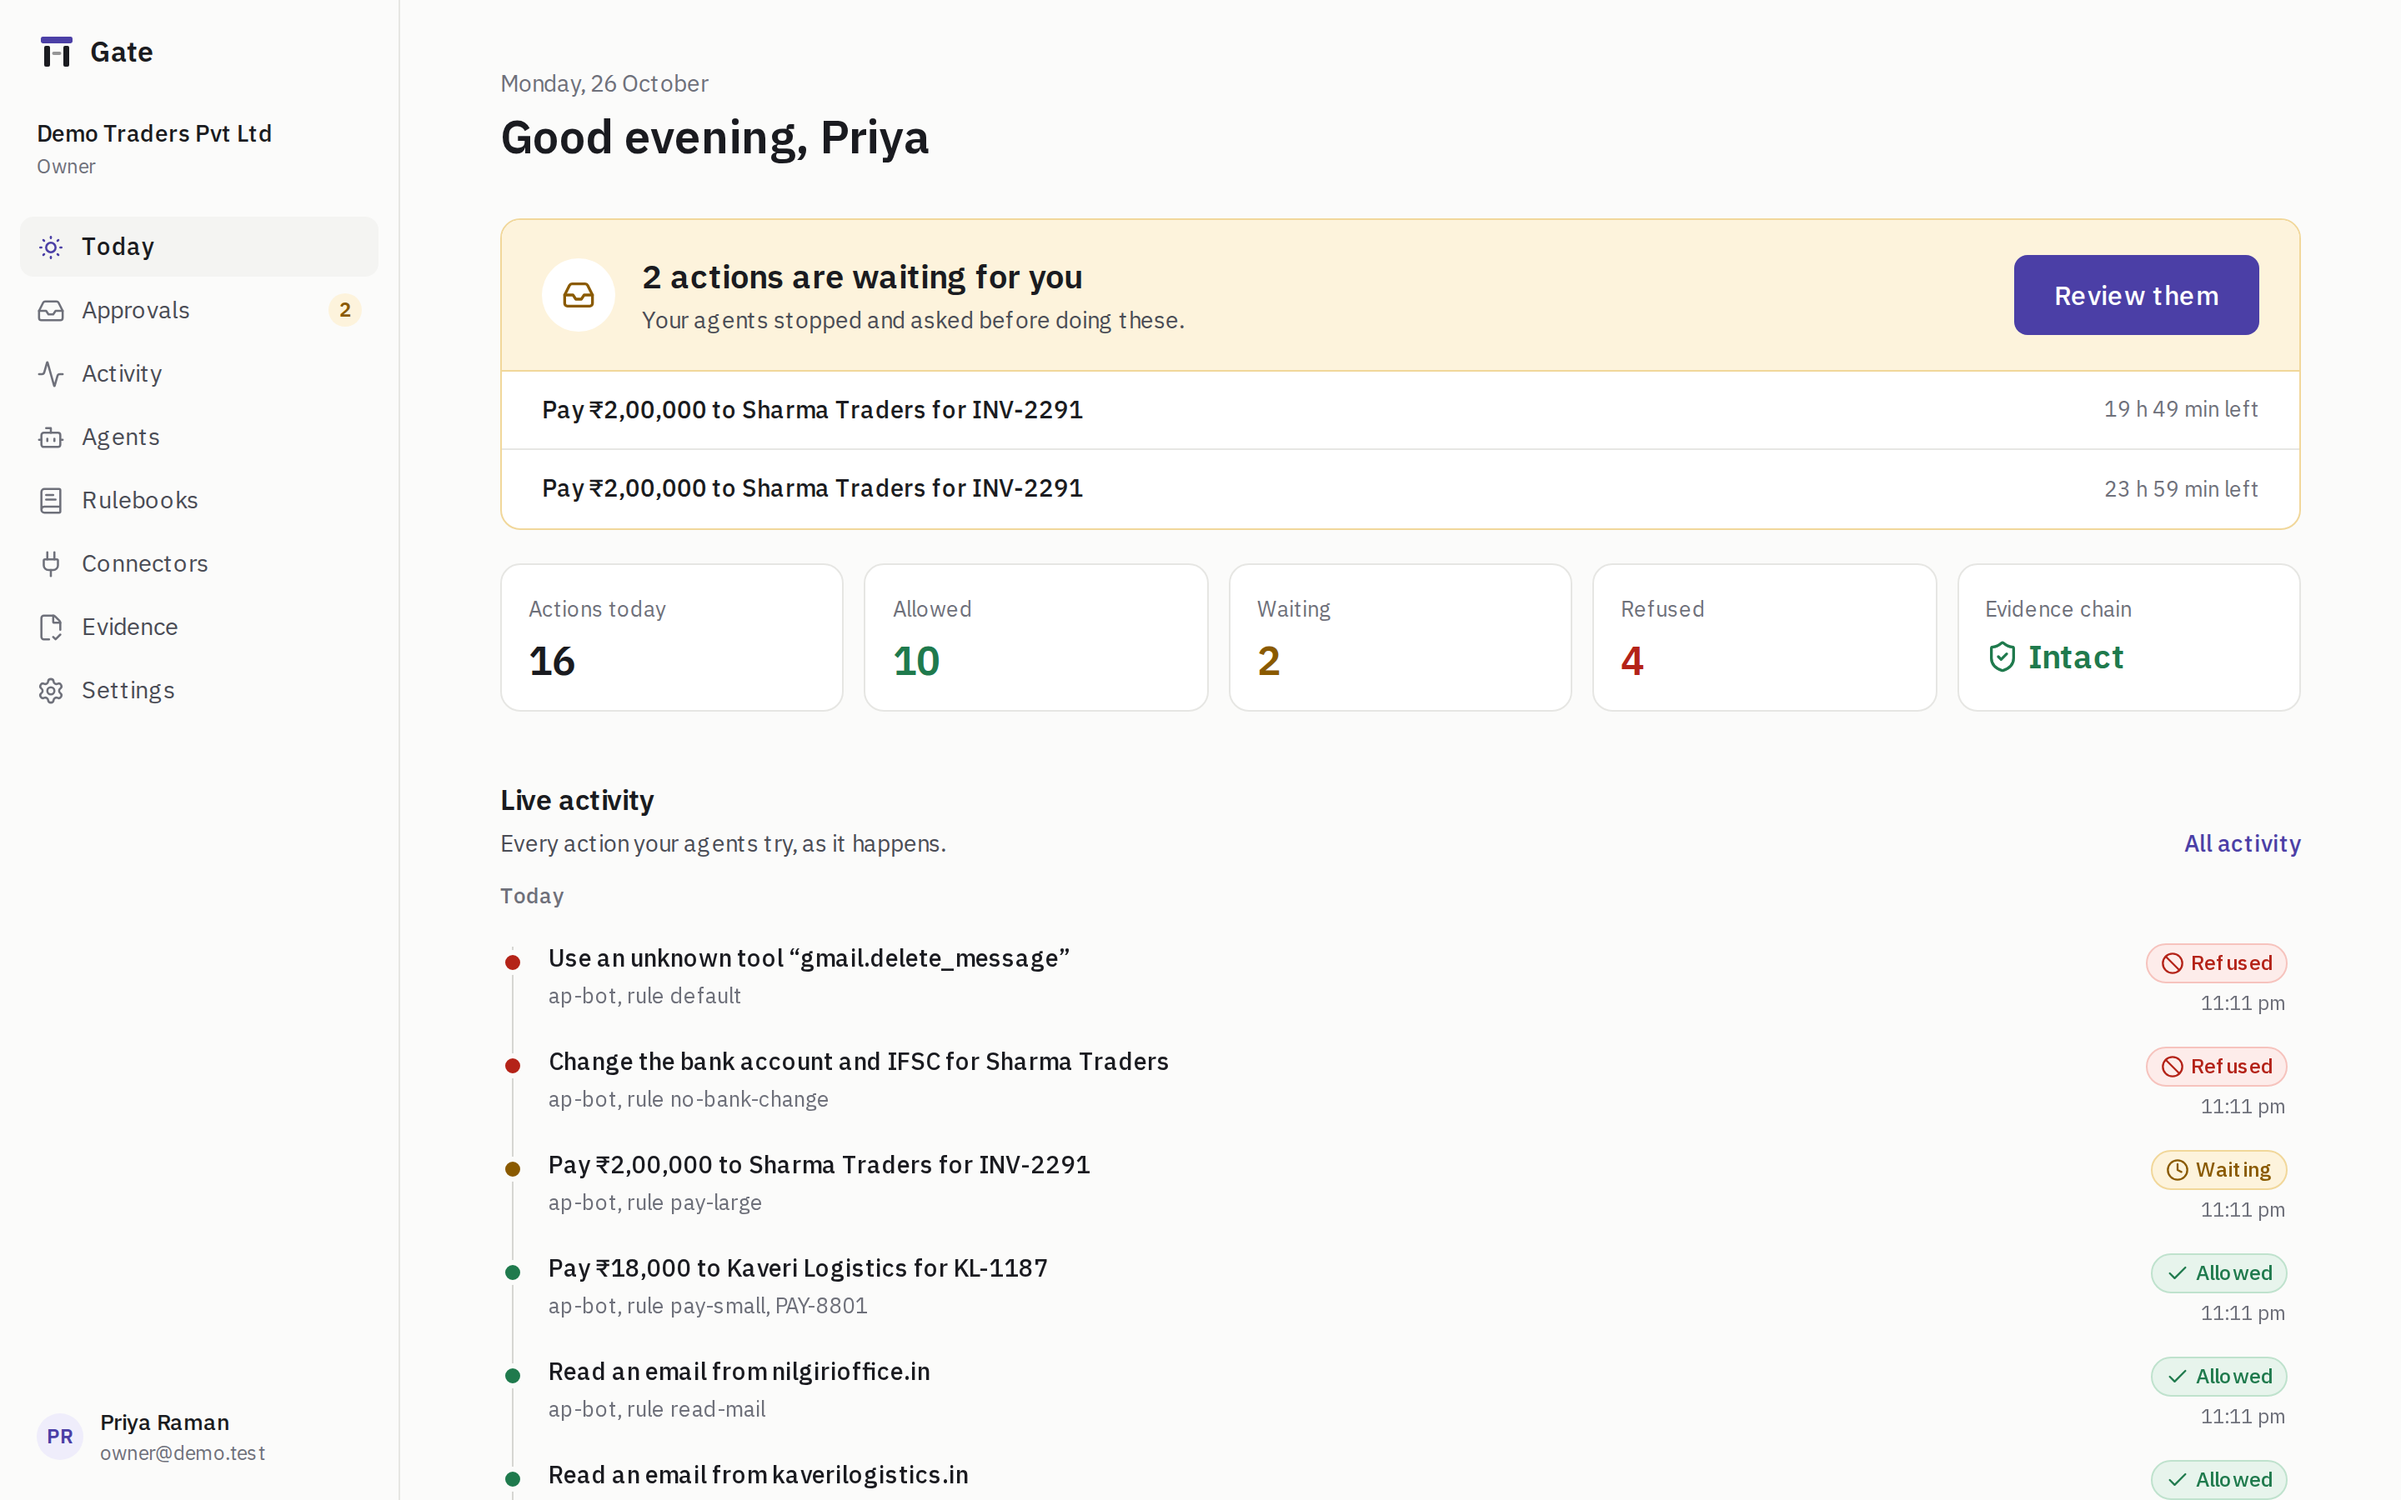
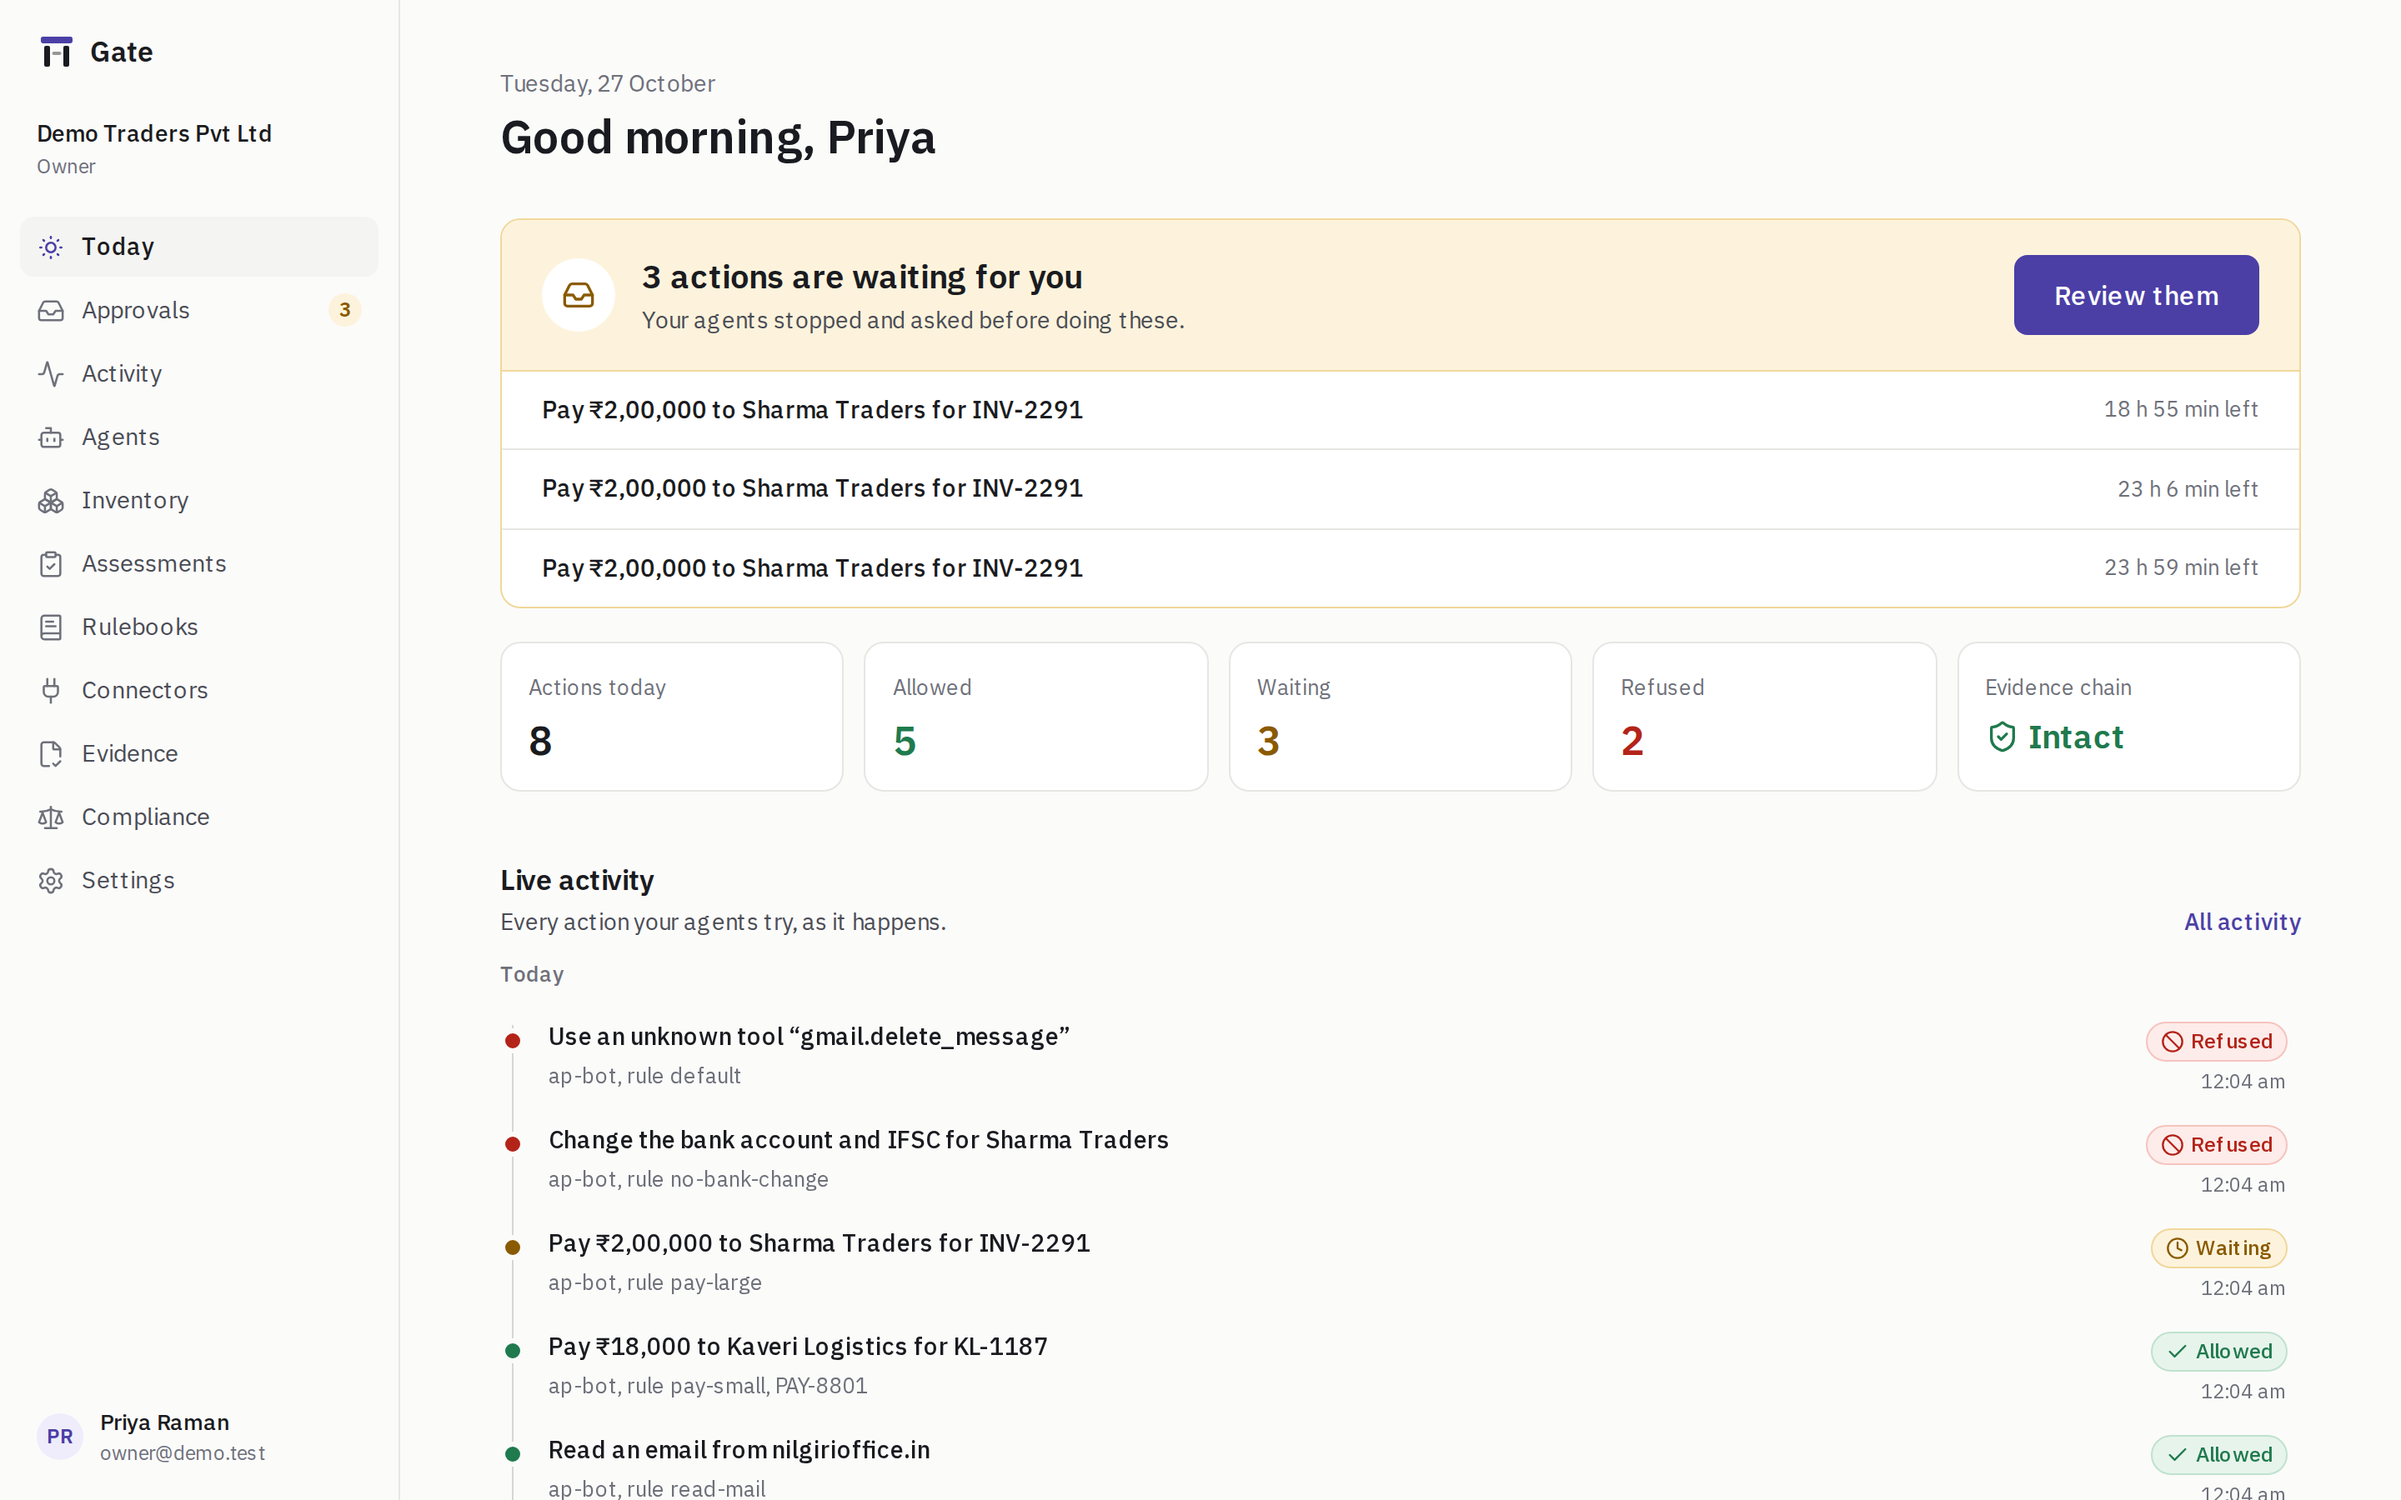
Docs and screenshots for the governance platform; gitleaks exception for public key fingerprints
Claude-Session: https://claude.ai/code/session_01RHbjjSCgH86VUkGWc2xeKH

diff --git a/docs/ARCHITECTURE.md b/docs/ARCHITECTURE.md
@@ -34,13 +34,13 @@ This document explains how the pieces fit, the invariants that keep it safe, and
 
 | Package | Responsibility | Depends on |
 |---|---|---|
-| `packages/core` | Pure logic, no I/O: canonical JSON, crypto, tool registry, rulebook schema, decision engine, receipts, chain and bundle verification, plain-language descriptions, risk questionnaire. Browser-safe subset at `@gate/core/browser`. | zod, yaml, fflate |
+| `packages/core` | Pure logic, no I/O: canonical JSON, crypto, key rings, tool registry, rulebook schema, decision engine, receipts, chain and bundle verification, plain-language descriptions, risk questionnaire, assessment templates and scoring, and the framework library and industry packs (`@gate/core/frameworks`). Browser-safe subset at `@gate/core/browser`. | zod, yaml, fflate |
 | `packages/db` | Prisma schema and migrations, `forOrg()` tenant scoping, serialized chain writer, quota usage, lookups that start from a secret. | core, Prisma |
 | `packages/connectors` | Gmail, Zoho Books (India data centre) and mock connectors behind one `Connector` interface. OAuth helpers. | core |
 | `packages/sdk` | `check` / `record` / `waitForApproval` for agents with their own loop. | none |
 | `packages/cli` | `gate verify`, `gate sign`, `gate keygen`. | core |
-| `apps/gate` | The guard: MCP server, REST Event API, approvals, evidence export, internal admin API, OAuth callbacks. | core, db, connectors |
-| `apps/web` | The console. Reads with `forOrg`, writes chain-affecting state only through the gate service. | core, db |
+| `apps/gate` | The guard: MCP server, REST Event API (+ OpenAPI), approvals, upstream MCP proxy, evidence and framework reports, webhooks, pg-boss jobs, key provider and rotation, internal admin API, OAuth callbacks. | core, db, connectors |
+| `apps/web` | The console: operations (Today, Approvals, Activity, Agents, Rulebooks, Connectors) and governance (Inventory, Assessments, Evidence, Compliance), plus SSO. Reads with `forOrg`, writes chain-affecting state only through the gate service. | core, db |
 
 Dependency direction is one way: `core ← db ← apps`, `core ← connectors ← gate`. Core never imports I/O; the web app never imports connectors (it can't hold OAuth tokens).
 
@@ -90,7 +90,7 @@ Rules can target a tool (`tool: zoho.record_bill_payment`) or every tool with a 
 ## Operations
 
 - **Configuration:** environment only, validated at startup; missing or weak secrets stop the process. `APP_ENV=production` also refuses the development sample secrets.
-- **Scaling:** both services are stateless apart from the database. Rate limits are per process today (planned: shared store). Background work moves to a Postgres-backed job queue so several Gate instances are safe.
+- **Scaling:** both services are stateless apart from the database. Background work (approval expiry, checkpoints, webhook delivery) runs on pg-boss in Postgres, so several Gate instances are safe. Rate limits are per process today (planned: shared store).
 - **Observability:** structured JSON logs with request ids and no personal data; `/healthz` reports the database and recent health alerts (for example a receipt that could not be written).
 
 See [SECURITY.md](../SECURITY.md) for the threat model and [DECISIONS.md](../DECISIONS.md) for the choices behind all this.

diff --git a/README.md b/README.md
@@ -72,7 +72,11 @@ Then look around:
 | ![Rule builder](docs/screenshots/08-rule-builder.png) **Rulebooks**: build rules visually or in YAML (kept in sync), try an action, compare versions, sign and publish. | ![Evidence](docs/screenshots/10-evidence.png) **Evidence**: chain status, checkpoints, the auditor pack, and the compliance map with live evidence counts. |
 | ![Agents](docs/screenshots/06-agent.png) **Agents**: owner, risk tier, keys, and a kill switch. | ![Add agent](docs/screenshots/07-add-agent.png) **Add agent**: name, five risk questions, connect tools, copy the MCP address and key. |
 
-More: [connectors](docs/screenshots/09-connectors.png), [settings](docs/screenshots/11-settings.png), [dark mode](docs/screenshots/12-today-dark.png), [sign-in](docs/screenshots/01-sign-in.png).
+| ![Inventory](docs/screenshots/15-inventory.png) **Inventory**: every AI system you use, with owner, data, risk and next review. | ![Compliance](docs/screenshots/17-compliance.png) **Compliance**: frameworks that apply to you, with coverage from live evidence. |
+
+More: [assessments](docs/screenshots/16-assessments.png), [a framework's requirements](docs/screenshots/18-compliance-eu-ai-act.png), [connectors and MCP servers](docs/screenshots/09-connectors.png), [settings](docs/screenshots/11-settings.png), [single sign-on](docs/screenshots/19-single-sign-on.png), [dark mode](docs/screenshots/12-today-dark.png), [sign-in](docs/screenshots/01-sign-in.png).
+
+New here? Start with [docs/GUIDE.md](docs/GUIDE.md), the plain-English guide to what Gate does and how to run it.
 
 **Check the evidence yourself.** On the Evidence page, download the auditor pack, then:
 

diff --git a/PLAN.md b/PLAN.md
@@ -9,3 +9,12 @@ Each phase ends with lint, typecheck and tests green, then a commit.
 - [x] **5. Demo, seed, live connectors** — `pnpm demo`, seeded demo org, real Gmail and Zoho Books (zoho.in) connectors behind env, SDK and CLI.
 - [x] **6. Security** — headers, CSRF, rate limits, lockout, tenant-isolation guard, authz matrix, cross-tenant, approval-link, injection tests, scanners (pnpm audit, semgrep, gitleaks, ZAP), `SECURITY.md`.
 - [x] **7. Polish** — UI review, empty states, dark mode, Playwright end-to-end, screenshots, README.
+
+## Phase 2: governance platform for every industry
+
+- [x] **8. Foundations** — tool registry with risk tags, rules by tag, quotas for any action, per-org time zone and currency, lenient rulebook loading.
+- [x] **9. Govern any MCP server** — upstream MCP connector with SSRF protection, tool tagging, approval execution upstream.
+- [x] **10. AI inventory and assessments** — register of AI systems, three assessment templates, scoring, separation of duties, review dates.
+- [x] **11. Frameworks and industry packs** — ten framework libraries, 13 controls, coverage from live evidence, framework report, seven industry packs, industry step in onboarding.
+- [x] **12. Platform** — pg-boss jobs, signed webhooks, OpenAPI 3.1, signing-key rotation with key ids.
+- [x] **13. Enterprise sign-in** — OIDC single sign-on with DNS-verified domains and optional enforcement.

diff --git a/SECURITY.md b/SECURITY.md
@@ -185,6 +185,7 @@ Run them all with `pnpm security` and `pnpm security:zap`.
 | Scanner | Finding | Why it is accepted |
 |---|---|---|
 | gitleaks, semgrep | "Generic secret" in `.env.example` | Deliberate dev-only sample values so `cp .env.example .env` works. Refused at startup when `APP_ENV=production`. The file is excluded in `.gitleaks.toml` and `.semgrepignore`, with this reason. |
+| gitleaks | "Generic API key" in README examples | It matched a public signing-key fingerprint in sample `gate verify` output. Fingerprints identify public keys and are meant to be shared with auditors. Only that exact pattern is allowlisted in `.gitleaks.toml`. |
 | ZAP 10055 (Medium) | CSP `style-src 'unsafe-inline'` | React and Next.js set inline styles. Scripts, the real XSS vector, are locked to per-request nonces with `strict-dynamic`. |
 | ZAP 10010 (Low) | Cookie without HttpOnly | That is `gate_csrf`, a double-submit CSRF token that same-origin JavaScript must read. The session cookie is HttpOnly. |
 | ZAP 10024 (Info) | Sensitive information in URL | Emailed approval links carry a signed, single-use, expiring token. |
